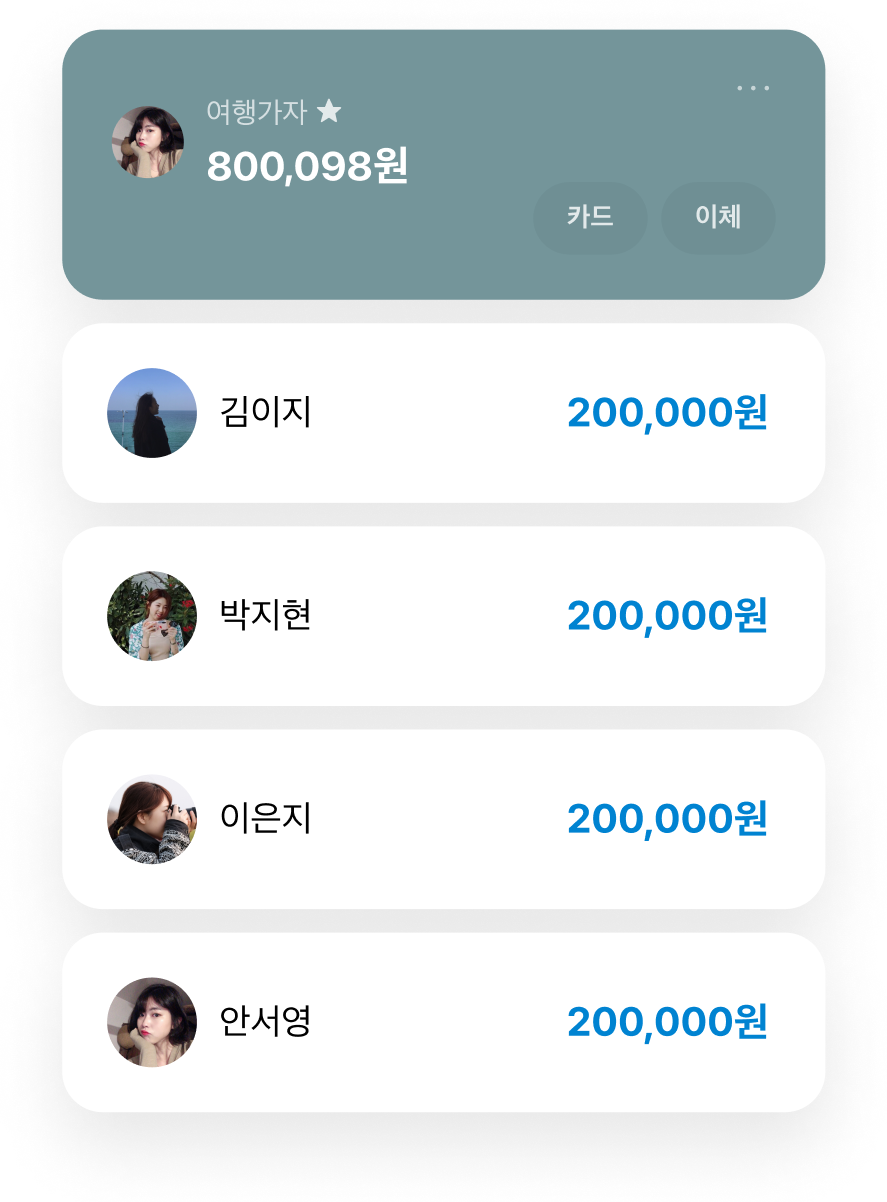
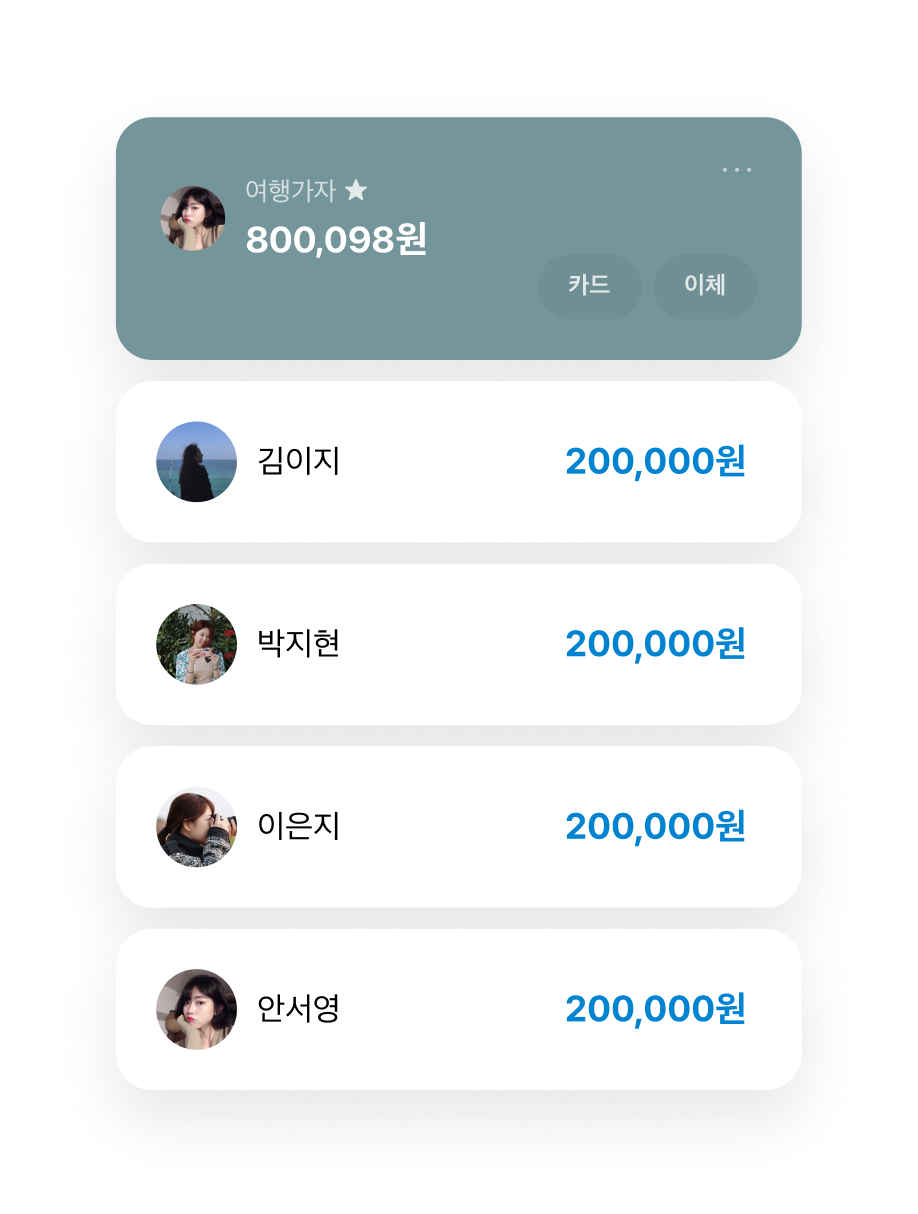
edit:moon

diff --git a/src/styles/index.css b/src/styles/index.css
@@ -22,6 +22,9 @@ button{
   text-align: center;
   margin-bottom: 50px !important;
 }
+#index_button1, #index_button2{
+  cursor: pointer;
+}
 button.short{
   background-color: #f6f6f6;
   width: 158px;
@@ -77,15 +80,15 @@ button.short{
   position: relative;
   font-size:40px;
   font-weight: bold;
-  top:150px;
+  top:130px;
 }
 #index_subhead1{
   position: absolute;
-  margin-top: 200px;
+  margin-top: 150px;
 }
 #index_subhead2{
   position: absolute;
-  margin-top: 250px;
+  margin-top: 200px;
 }
 #index_button1{
   float: left;
@@ -101,7 +104,7 @@ button.short{
   background: #fff;
   text-align: center;
   margin-right: 10px;
-  margin-top: 350px;
+  margin-top: 260px;
 }
 #index_button2 {
   float: left;
@@ -117,7 +120,7 @@ button.short{
   color: #333;
   background: #fff;
   text-align: center;
-  margin-top: 350px;
+  margin-top: 260px;
 }
 
 #index_button1 img, #index_button2 img{
@@ -143,35 +146,57 @@ button.short{
   z-index: 100;
   text-align: center;
   top: 10px;
-  margin-left:110px;
+  margin-left:150px;
 }
 #sky_mainhead{
   font-size:40px;
   font-weight: bold;
-  margin-top: 170px;
+  margin-top: 350px;
 }
 #skymobile {
   width: 329px;
-  height: 463px;
-  margin-top: 50px;
-  
+  height: 465px;
+  margin-top: 70px;
+  margin-right: 20px;
 }
 /* 07. sky sun+moon */
 .moonoriginal {
   position: relative;
   top: 50%;
   left: 50%;
-  transform: translate(450px, -690px); /* 새로운 위치 설정 */
+  transform: translate(450px, -690px);
   width: 100px;
   height: 100px;
   border-radius: 50%;
   background-color: #FFD700; /* 초기 색상: 노랑 */
-  transition: background-color 2s ease;
+  transition: background-color 1s ease;
   z-index: 9999; /* 원을 최상위로 배치 */
   }
+.moonshadow{
+  position: relative;
+  top: 50%;
+  left: 50%;
+  transform: translate(420px, -810px) scale(0);
+  width: 100px;
+  height: 100px;
+  border-radius: 50%;
+  background-color:  #FFD700;
+  transition: background-color 1s ease;
+  z-index: 9999; /* 원을 최상위로 배치 */
+  opacity: 0;
+  transition: 
+  opacity 1.5s ease-out 1.5s, 
+  transform 1.5s ease-out; /* transform 애니메이션 (scale) */
+}
+/* transition: 애니메이션 지속시간 ease(애니메이션속도) 애니메이션 대기시간간 */
   .animate-moon {
-    transition: background-color 2s ease, transform 2s ease;
+    transition: background-color 1s ease, transform 1s ease;
     background-color: #FFFFFF; 
+  }
+  .animate-shadow {
+    transform: translate(420px, -810px) translateX(0);
+    opacity: 1;
+    background-color: #333b58;
   }
   .sky_bg {
     transition: background-color 2s ease;
@@ -195,7 +220,7 @@ button.short{
     background-color: #FFFFFF;
     width: 3px;
     height: 3px;
-    opacity: 0.2; /* 초기 상태 */
+    opacity: 0.2;
     animation: twinkle 2s infinite ease-in-out; /* 반짝이는 애니메이션 */
     z-index: 9998;
   }
@@ -205,7 +230,7 @@ button.short{
   font-size: 40px;
   font-weight: bold;
 }
-.card_box {position: relative;text-align: center;margin: 2rem auto;} 
+.card_box {position: relative;text-align: center;margin: 5rem auto;} 
 .index_container.checkcard_bg {
   background: url();
   background-size: cover;
@@ -250,6 +275,7 @@ button.short{
   top: 50%;
   transform: translateY(-50%);
   z-index: 20;
+  cursor: pointer;
 }
 .slick-arrow i {
   font-size: 40px;
@@ -268,34 +294,24 @@ button.short{
   cursor: pointer;
 }
 .controll-card i:hover{color: black;}
-
-
-
-
-
-
-
-
-
-
-
 /* 09.IT------------------------------------------------- */
 .index_container.it_bg {
   background: url();
   background-size: cover;
-  height: 1176px;
+  height: 1100px;
   display: flex;
   justify-content: center;
   align-items: center;
   flex-direction: column;
   text-align: center;
   background-color: #f9f9f9;
-  padding-bottom: 230px;
+  padding-bottom: 200px;
   
 }
 #it_mainhead{
   font-size:40px !important;
   font-weight: bold !important;
+  margin-top: 200px;
 }
 .index_container.it_bg.it_paragraphs{
   display: flex;
@@ -344,6 +360,8 @@ button.short{
 .index_container.saving_box img {
   width: 409px;
   height: 722px;
+  opacity: 0;
+  transition: opacity 1.5s ease, transform 1.5s ease;
 }
 .index_container.moim_box img {
   width: 459px;
@@ -356,6 +374,8 @@ button.short{
 .index_container.overseas_box img {
   width: 408px;
   height: 715px;
+  opacity: 0;
+  transition: opacity 1.5s ease, transform 1.5s ease;
 }
 .index_container.saving_box #bottomimg2{
   margin-top: 30px;

diff --git a/index.html b/index.html
@@ -131,15 +131,19 @@
           <img id="skymobile" src="/src/assets/media/images/01index/06loan.png" alt="img">
           <!-- 해와 달 -->
           <div id="moon">
-            <div class="moonoriginal"></div>
+            <div class="moonoriginal">
+              
+            </div>
             <div class="moonshadow"></div>
-            <div class="star" style="top: 50px; left: 300px;"></div>
-            <div class="star" style="top: 150px; left: 600px;"></div>
-            <div class="star" style="top: 300px; left: 900px;"></div>
-            <div class="star" style="top: 500px; left: 1200px;"></div>
-            <div class="star" style="top: 870px; left: 709px;"></div>
-            <div class="star" style="top: 10px; left: 49px;"></div>
-            <div class="star" style="top: 10px; left: 1000px;"></div>
+            <div>
+              <div class="star" style="top: 50px; left: 300px;"></div>
+              <div class="star" style="top: 150px; left: 80px;"></div>
+              <div class="star" style="top: 300px; left: 250px;"></div>
+              <div class="star" style="top: 500px; left: 1200px;"></div>
+              <div class="star" style="top: 870px; left: 709px;"></div>
+              <div class="star" style="top: 922px; left: 49px;"></div>
+              <div class="star" style="top: 10px; left: 1000px;"></div>
+            </div>
           </div>
         </div>
       </div>

diff --git a/src/js/index.js b/src/js/index.js
@@ -84,6 +84,9 @@ $(document).ready(function(){
     if (scrollpos + $(window).height() > content03 + 100) {
       $('.moonoriginal').addClass('animate-moon').css('opacity', '1');
     }
+    if (scrollpos + $(window).height() > content03 + 100) {
+      $('.moonshadow').addClass('animate-shadow').css('opacity', '1');
+    }
     if (scrollpos + $(window).height() > content04 + 100) {
       $('.sky_bg').css('background-color', '#333b58'); // 밤 배경색
     } else {
